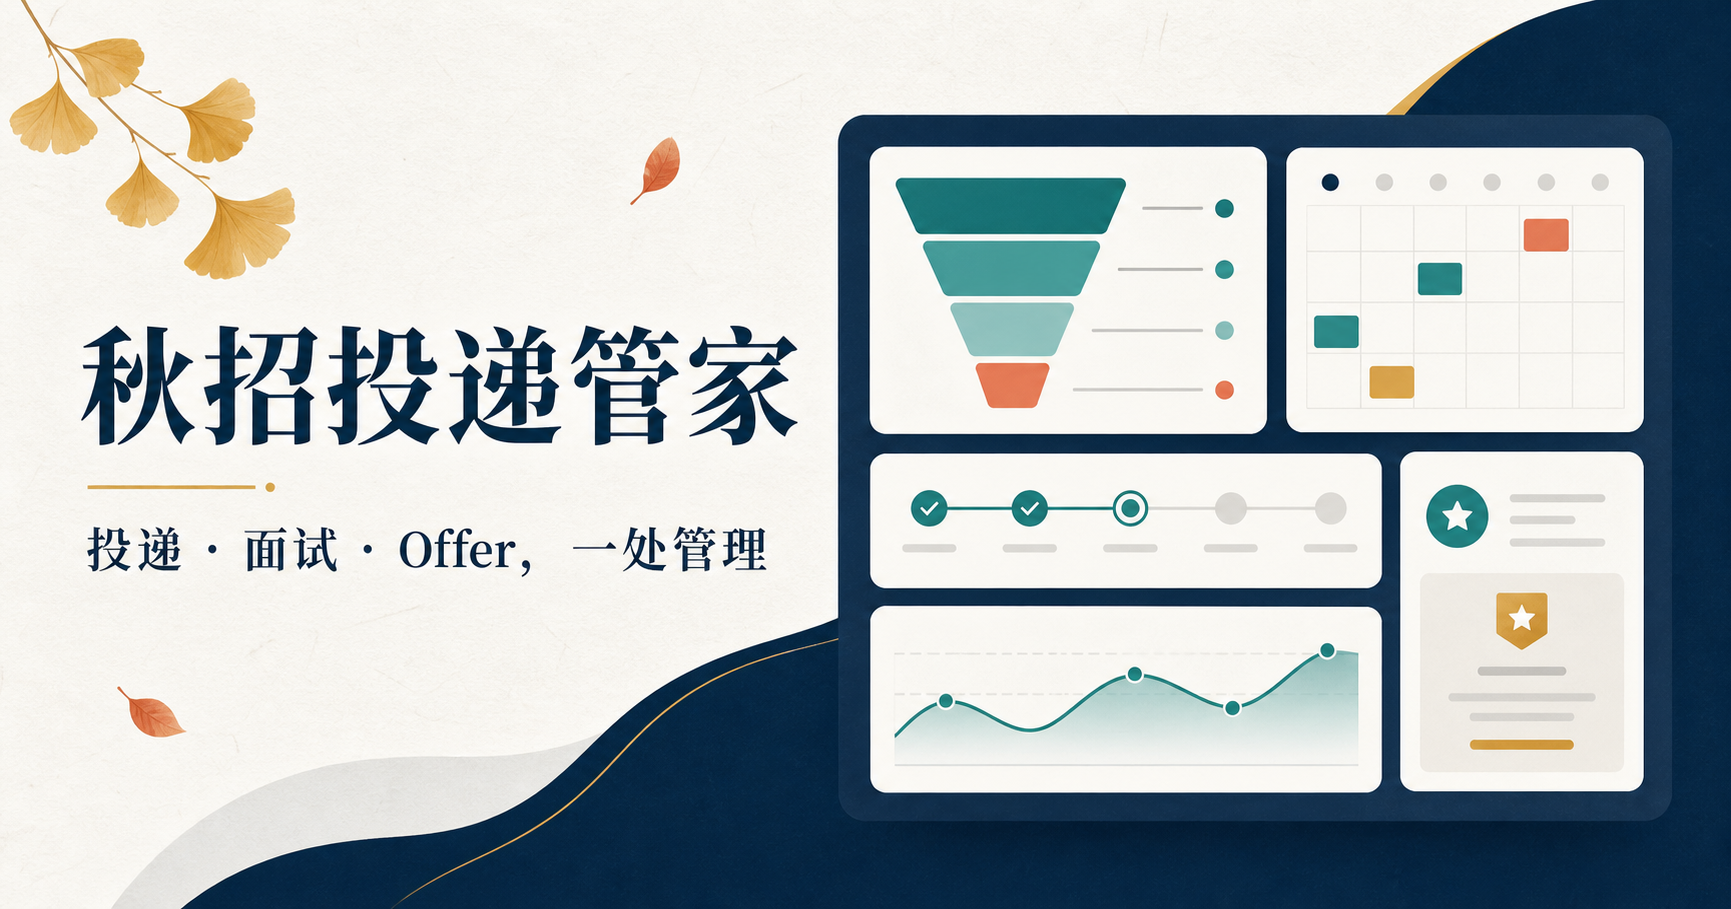
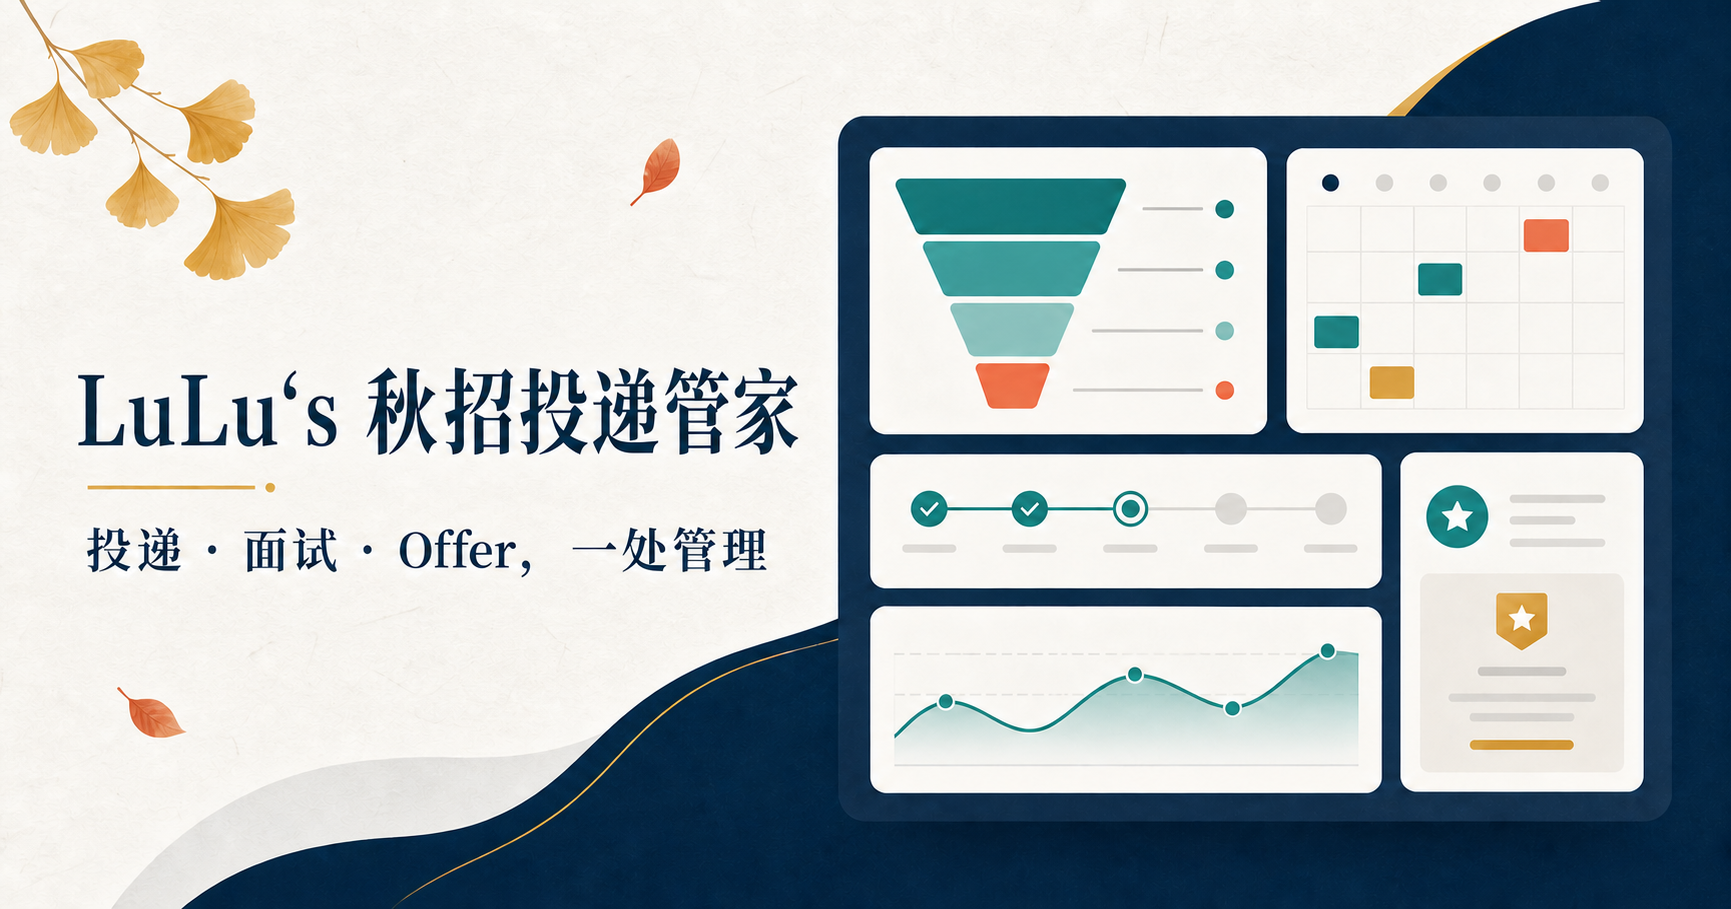
Simplify LuLu autumn tracker

diff --git a/app/api/applications/route.ts b/app/api/applications/route.ts
@@ -2,15 +2,14 @@ import { eq } from "drizzle-orm";
 import { getDb } from "../../../db";
 import { applications, timelineEvents } from "../../../db/schema";
 
-const textFields = ["company", "role", "city", "industry", "jobCategory", "team", "employmentType", "source", "referralName", "referralContact", "appliedDate", "deadlineDate", "stage", "priority", "applyUrl", "writtenDate", "firstDate", "secondDate", "nextEventDate", "responseDate", "result", "jdText", "notes"] as const;
+const textFields = ["company", "role", "city", "industry", "jobCategory", "team", "employmentType", "appliedDate", "deadlineDate", "stage", "priority", "applyUrl", "writtenDate", "firstDate", "secondDate", "nextEventDate", "responseDate", "result", "jdText", "notes"] as const;
 type TextField = typeof textFields[number];
 
 function clean(body: Record<string, unknown>) {
-  const result = {} as Record<TextField, string> & { salaryMin: number; salaryMax: number; resumeId: number | null };
+  const result = {} as Record<TextField, string> & { salaryMin: number; salaryMax: number };
   for (const field of textFields) result[field] = typeof body[field] === "string" ? body[field].trim() : "";
   result.salaryMin = Number(body.salaryMin) || 0;
   result.salaryMax = Number(body.salaryMax) || 0;
-  result.resumeId = Number(body.resumeId) || null;
   return result;
 }
 
@@ -27,7 +26,7 @@ export async function POST(request: Request) {
     if (!values.company || !values.role) return Response.json({ error: "公司名称和岗位名称不能为空" }, { status: 400 });
     const db = getDb();
     const [application] = await db.insert(applications).values(values).returning();
-    await db.insert(timelineEvents).values({ applicationId: application.id, type: "创建", title: values.stage === "待投递" ? "加入待投递清单" : `状态：${values.stage}`, occurredAt: values.appliedDate || new Date().toISOString(), notes: values.source ? `渠道：${values.source}` : "" });
+    await db.insert(timelineEvents).values({ applicationId: application.id, type: "创建", title: values.stage === "待投递" ? "加入待投递清单" : `状态：${values.stage}`, occurredAt: values.appliedDate || new Date().toISOString(), notes: "" });
     return Response.json({ application }, { status: 201 });
   } catch (error) { return Response.json({ error: messageFor(error) }, { status: 500 }); }
 }

diff --git a/app/api/data/route.ts b/app/api/data/route.ts
@@ -1,6 +1,6 @@
 import { desc } from "drizzle-orm";
 import { getDb } from "../../../db";
-import { applications, attachments, interviews, knowledgeNotes, offers, prospects, resumes, timelineEvents, userSettings } from "../../../db/schema";
+import { applications, attachments, interviews, knowledgeNotes, offers, prospects, timelineEvents, userSettings } from "../../../db/schema";
 
 function messageFor(error: unknown) {
   const message = error instanceof Error ? error.message : "Unexpected error";
@@ -11,18 +11,17 @@ function messageFor(error: unknown) {
 export async function GET() {
   try {
     const db = getDb();
-    const [applicationRows, interviewRows, timelineRows, noteRows, prospectRows, resumeRows, offerRows, attachmentRows, settingsRows] = await Promise.all([
+    const [applicationRows, interviewRows, timelineRows, noteRows, prospectRows, offerRows, attachmentRows, settingsRows] = await Promise.all([
       db.select().from(applications).orderBy(desc(applications.updatedAt), desc(applications.id)),
       db.select().from(interviews).orderBy(desc(interviews.date), desc(interviews.id)),
       db.select().from(timelineEvents).orderBy(desc(timelineEvents.occurredAt), desc(timelineEvents.id)),
       db.select().from(knowledgeNotes).orderBy(desc(knowledgeNotes.updatedAt), desc(knowledgeNotes.id)),
       db.select().from(prospects).orderBy(desc(prospects.createdAt), desc(prospects.id)),
-      db.select().from(resumes).orderBy(desc(resumes.createdAt), desc(resumes.id)),
       db.select().from(offers).orderBy(desc(offers.createdAt), desc(offers.id)),
       db.select().from(attachments).orderBy(desc(attachments.createdAt), desc(attachments.id)),
       db.select().from(userSettings).limit(1),
     ]);
-    return Response.json({ applications: applicationRows, interviews: interviewRows, timeline: timelineRows, notes: noteRows, prospects: prospectRows, resumes: resumeRows, offers: offerRows, attachments: attachmentRows, settings: settingsRows[0] ?? null });
+    return Response.json({ applications: applicationRows, interviews: interviewRows, timeline: timelineRows, notes: noteRows, prospects: prospectRows, offers: offerRows, attachments: attachmentRows, settings: settingsRows[0] ?? null });
   } catch (error) {
     return Response.json({ error: messageFor(error) }, { status: 500 });
   }

diff --git a/app/globals.css b/app/globals.css
@@ -3,11 +3,11 @@
 :root{--ink:#1c2b35;--muted:#7b898d;--paper:#f4f6f2;--card:#fff;--line:#e3e8e2;--navy:#19364a;--teal:#348b7f;--teal-soft:#e8f3ef;--coral:#dd795b;--gold:#d3a84d;--red:#b95548;--shadow:0 18px 55px rgb(27 52 62 / 7%)}
 *{box-sizing:border-box}html{background:var(--paper)}body{margin:0;background:var(--paper);color:var(--ink);font-family:Arial,"PingFang SC","Microsoft YaHei",sans-serif}button,input,select,textarea{font:inherit}button{cursor:pointer}a{color:inherit}.app-shell{min-height:100vh}.sidebar{position:fixed;z-index:8;inset:0 auto 0 0;display:flex;flex-direction:column;width:222px;padding:24px 14px 18px;background:var(--navy);color:#fff}.sidebar-brand{display:flex;align-items:center;gap:11px;padding:0 8px 25px}.sidebar-brand>span{display:grid;place-items:center;width:42px;height:42px;border:1px solid rgb(255 255 255 / 24%);border-radius:12px;background:#264a5e;font-size:21px;font-weight:800}.sidebar-brand div{display:grid;gap:3px}.sidebar-brand strong{font-size:17px}.sidebar-brand small{color:#8fb0bd;font-size:8px;letter-spacing:.17em}.sidebar nav{display:grid;gap:4px}.sidebar nav button{position:relative;display:flex;align-items:center;gap:12px;width:100%;border:0;border-radius:9px;background:transparent;padding:10px 12px;color:#adc0c7;text-align:left;font-size:13px}.sidebar nav button:hover,.sidebar nav button.active{background:rgb(255 255 255 / 9%);color:#fff}.sidebar nav button.active:before{position:absolute;left:-14px;width:3px;height:24px;border-radius:0 3px 3px 0;background:#5db2a4;content:""}.sidebar nav i{display:grid;place-items:center;width:19px;color:#77aca8;font-style:normal;font-size:16px}.sidebar nav b{margin-left:auto;min-width:19px;border-radius:10px;background:var(--coral);padding:2px 5px;text-align:center;font-size:9px}.goal-card{margin-top:auto;border:1px solid rgb(255 255 255 / 10%);border-radius:11px;background:rgb(255 255 255 / 5%);padding:13px}.goal-card>div:first-child{display:flex;justify-content:space-between;align-items:center;font-size:10px;color:#a8bec5}.goal-card strong{color:#fff;font-size:13px}.goal-track{height:5px;margin:10px 0 7px;border-radius:5px;background:#365566;overflow:hidden}.goal-track i{display:block;height:100%;border-radius:5px;background:#67b9a9}.goal-card small{color:#89a8b3;font-size:9px}.main{min-height:100vh;margin-left:222px}.topbar{display:flex;align-items:center;justify-content:space-between;min-height:80px;padding:18px 34px;border-bottom:1px solid var(--line);background:rgb(244 246 242 / 86%);backdrop-filter:blur(12px)}.topbar h1{margin:3px 0 0;font-size:22px;letter-spacing:-.04em}.section-kicker{color:#8b9a9b;font-size:8px;font-weight:800;letter-spacing:.18em}.top-actions{display:flex;align-items:center;gap:17px}.sync{display:flex;align-items:center;gap:7px;color:var(--muted);font-size:10px}.sync i{width:7px;height:7px;border-radius:50%;background:var(--gold)}.sync.ready i{background:#65b89c}.avatar{display:grid;place-items:center;width:34px;height:34px;border:0;border-radius:50%;background:#dde8e3;color:var(--teal);font-weight:800}.menu-button{display:none;border:0;background:transparent;font-size:22px}.error-banner{display:flex;justify-content:space-between;margin:16px 32px 0;border:1px solid #e8b9a9;border-radius:9px;background:#fff2ed;padding:11px 13px;color:#a94e3a;font-size:12px}.error-banner button{border:0;background:transparent;color:inherit}.loading-page{display:grid;place-items:center;min-height:65vh;color:var(--muted);font-size:12px}.loading-page span{width:34px;height:34px;border:3px solid #dbe9e3;border-top-color:var(--teal);border-radius:50%;animation:spin 1s linear infinite}.loading-page p{margin-top:-190px}@keyframes spin{to{transform:rotate(360deg)}}
 .page{padding:28px 34px 48px}.page-head,.welcome{display:flex;align-items:center;justify-content:space-between;gap:20px;margin-bottom:20px}.page-head p,.welcome p{margin:0;color:#657579;font-size:13px}.welcome p{color:var(--ink);font-size:19px;font-weight:700}.welcome span{display:block;margin-top:6px;color:var(--muted);font-size:12px}.head-actions{display:flex;gap:8px}.primary,.secondary,.danger{border-radius:8px;padding:9px 13px;font-size:12px;font-weight:700}.primary{border:1px solid var(--teal);background:var(--teal);color:#fff;box-shadow:0 7px 17px rgb(52 139 127 / 17%)}.secondary{border:1px solid var(--line);background:#fff;color:#4c5f61}.danger{border:1px solid #edc9c1;background:#fff6f3;color:var(--red)}.primary:hover,.secondary:hover{transform:translateY(-1px)}.primary:disabled{opacity:.55;cursor:wait}.metric-grid{display:grid;grid-template-columns:repeat(5,minmax(0,1fr));gap:10px;margin-bottom:18px}.metric{position:relative;overflow:hidden;min-height:118px;border:1px solid var(--line);border-radius:13px;background:#fff;padding:16px}.metric:after{position:absolute;right:-20px;bottom:-35px;width:82px;height:82px;border-radius:50%;background:var(--soft,#edf3f0);content:""}.metric span,.metric small{display:block;color:var(--muted);font-size:10px}.metric strong{position:relative;z-index:1;display:block;margin:10px 0 6px;font-size:31px;letter-spacing:-.06em}.metric-navy{--soft:#e3ebef}.metric-teal{--soft:#dff1ec}.metric-green{--soft:#e0f2e7}.metric-coral{--soft:#f5e5df}.metric-gold{--soft:#f6edda}.dashboard-grid{display:grid;grid-template-columns:1.15fr .85fr;gap:14px}.panel{border:1px solid var(--line);border-radius:14px;background:#fff;box-shadow:var(--shadow)}.panel-head{display:flex;align-items:center;justify-content:space-between;gap:12px;padding:18px 20px 12px}.panel-head h2{margin:4px 0 0;font-size:16px}.panel-head>small,.panel-head>button{border:0;background:transparent;color:var(--muted);font-size:10px}.funnel{display:grid;gap:9px;padding:5px 20px 21px}.funnel-row{display:grid;grid-template-columns:58px 1fr 25px 35px;align-items:center;gap:8px;font-size:10px}.funnel-row>span{color:#627276}.funnel-row>div{height:8px;border-radius:8px;background:#edf1ee;overflow:hidden}.funnel-row i{display:block;height:100%;border-radius:8px;background:linear-gradient(90deg,#3b9286,#75b8a9)}.funnel-row strong{text-align:right;font-size:12px}.funnel-row small{color:var(--muted);text-align:right;font-size:8px}.segmented{display:flex;border:1px solid var(--line);border-radius:7px;background:#f7f9f7;padding:2px}.segmented button{border:0;border-radius:5px;background:transparent;padding:5px 8px;color:var(--muted);font-size:9px}.segmented button.active{background:#fff;color:var(--ink);box-shadow:0 1px 5px rgb(0 0 0 / 7%)}.trend-canvas{display:block;width:100%;height:214px;padding:0 4px}.distribution-panel,.todo-panel{min-height:280px}.distribution-columns{display:grid;grid-template-columns:1fr 1fr;gap:28px;padding:2px 20px 20px}.distribution-columns h3{margin:0 0 11px;font-size:11px}.mini-bar{display:grid;grid-template-columns:55px 1fr 20px;align-items:center;gap:7px;margin:9px 0;font-size:9px}.mini-bar>span{overflow:hidden;text-overflow:ellipsis;white-space:nowrap;color:var(--muted)}.mini-bar>div{height:5px;border-radius:4px;background:#edf1ee}.mini-bar i{display:block;height:100%;border-radius:4px;background:#73afa4}.mini-bar b{text-align:right}.todo-list{padding:0 20px 16px}.todo-list>div{display:flex;align-items:center;gap:10px;padding:11px 0;border-bottom:1px solid var(--line)}.todo-list i{width:8px;height:8px;border-radius:50%}.dot-teal{background:var(--teal)}.dot-orange{background:var(--coral)}.dot-gold{background:var(--gold)}.todo-list strong,.todo-list span{display:block}.todo-list strong{font-size:11px}.todo-list span{margin-top:4px;color:var(--muted);font-size:9px}
-.filterbar{display:grid;grid-template-columns:minmax(210px,1fr) repeat(5,minmax(105px,auto));gap:8px;margin-bottom:10px}.search{display:flex;align-items:center;border:1px solid var(--line);border-radius:8px;background:#fff;padding:0 10px;color:var(--muted)}.search input{border:0;box-shadow:none}.filterbar select,.filterbar input{height:38px}.list-summary{display:flex;justify-content:space-between;margin:11px 2px;color:var(--muted);font-size:9px}.table-card{overflow-x:auto;border:1px solid var(--line);border-radius:13px;background:#fff;box-shadow:var(--shadow)}table{width:100%;min-width:900px;border-collapse:collapse;font-size:11px}th{background:#fafbf9;padding:11px 12px;color:#839093;text-align:left;font-size:9px;white-space:nowrap}td{border-top:1px solid var(--line);padding:12px;vertical-align:middle}tbody tr:hover{background:#fbfdfc}.company-cell{display:flex;align-items:center;gap:10px}.company-cell strong,.company-cell span{display:block}.company-cell strong{font-size:12px}.company-cell span{margin-top:4px;color:var(--muted);font-size:9px}.company-logo{display:grid;place-items:center;flex:0 0 35px;width:35px;height:35px;border-radius:9px;font-size:10px;font-weight:800}.pill{display:inline-flex;align-items:center;border-radius:99px;background:#edf2ef;padding:4px 8px;color:#536b66;font-size:8px;white-space:nowrap}.pill-Offer,.pill-通过{background:#dff2e8;color:#2c7b5c}.pill-已拒绝公司,.pill-已拒绝,.pill-避雷{background:#f7e5e1;color:#a44d3e}.pill-待投递,.pill-Dream{background:#fff0d2;color:#90651d}.pill-笔试,.pill-一面,.pill-二面,.pill-终面,.pill-HR面{background:#e5eef6;color:#446d8a}.priority{display:grid;place-items:center;width:22px;height:22px;border-radius:6px;background:#edf1ef;font-size:9px;font-weight:800}.priority-S{background:#f7dfd6;color:#a64e37}.priority-A{background:#f9edd2;color:#916516}.priority-B{background:#e3f0eb;color:#3f7467}.more{border:0;background:transparent;color:var(--teal);font-size:9px}.empty{display:grid;justify-items:center;padding:62px 22px;text-align:center}.empty>span{display:grid;place-items:center;width:48px;height:48px;border-radius:50%;background:var(--teal-soft);color:var(--teal);font-size:20px}.empty h3{margin:13px 0 5px;font-size:15px}.empty p{max-width:340px;margin:0 0 15px;color:var(--muted);font-size:10px;line-height:1.6}
+.filterbar{display:grid;grid-template-columns:minmax(210px,1fr) repeat(4,minmax(105px,auto));gap:8px;margin-bottom:10px}.search{display:flex;align-items:center;border:1px solid var(--line);border-radius:8px;background:#fff;padding:0 10px;color:var(--muted)}.search input{border:0;box-shadow:none}.filterbar select,.filterbar input{height:38px}.list-summary{display:flex;justify-content:space-between;margin:11px 2px;color:var(--muted);font-size:9px}.table-card{overflow-x:auto;border:1px solid var(--line);border-radius:13px;background:#fff;box-shadow:var(--shadow)}table{width:100%;min-width:900px;border-collapse:collapse;font-size:11px}th{background:#fafbf9;padding:11px 12px;color:#839093;text-align:left;font-size:9px;white-space:nowrap}td{border-top:1px solid var(--line);padding:12px;vertical-align:middle}tbody tr:hover{background:#fbfdfc}.company-cell{display:flex;align-items:center;gap:10px}.company-cell strong,.company-cell span{display:block}.company-cell strong{font-size:12px}.company-cell span{margin-top:4px;color:var(--muted);font-size:9px}.company-logo{display:grid;place-items:center;flex:0 0 35px;width:35px;height:35px;border-radius:9px;font-size:10px;font-weight:800}.pill{display:inline-flex;align-items:center;border-radius:99px;background:#edf2ef;padding:4px 8px;color:#536b66;font-size:8px;white-space:nowrap}.pill-Offer,.pill-通过{background:#dff2e8;color:#2c7b5c}.pill-已拒绝公司,.pill-已拒绝,.pill-避雷{background:#f7e5e1;color:#a44d3e}.pill-待投递,.pill-Dream{background:#fff0d2;color:#90651d}.pill-笔试,.pill-一面,.pill-二面,.pill-终面,.pill-HR面{background:#e5eef6;color:#446d8a}.priority{display:grid;place-items:center;width:22px;height:22px;border-radius:6px;background:#edf1ef;font-size:9px;font-weight:800}.priority-S{background:#f7dfd6;color:#a64e37}.priority-A{background:#f9edd2;color:#916516}.priority-B{background:#e3f0eb;color:#3f7467}.more{border:0;background:transparent;color:var(--teal);font-size:9px}.empty{display:grid;justify-items:center;padding:62px 22px;text-align:center}.empty>span{display:grid;place-items:center;width:48px;height:48px;border-radius:50%;background:var(--teal-soft);color:var(--teal);font-size:20px}.empty h3{margin:13px 0 5px;font-size:15px}.empty p{max-width:340px;margin:0 0 15px;color:var(--muted);font-size:10px;line-height:1.6}
 .calendar-layout{display:grid;grid-template-columns:minmax(0,1fr) 280px;gap:14px}.calendar-main{overflow:hidden}.calendar-toolbar{display:flex;align-items:center;justify-content:space-between;padding:15px 16px;border-bottom:1px solid var(--line)}.calendar-toolbar>div:first-child{display:flex;align-items:center;gap:10px}.calendar-toolbar>div:first-child button{border:0;background:transparent;color:var(--muted);font-size:20px}.calendar-toolbar strong{font-size:13px}.month-grid{display:grid;grid-template-columns:repeat(7,1fr)}.month-grid>b{padding:8px;text-align:center;color:var(--muted);font-size:8px}.month-grid>div{min-height:91px;border-top:1px solid var(--line);border-right:1px solid var(--line);padding:7px}.month-grid>div:nth-child(7n){border-right:0}.month-grid>div>span{display:grid;place-items:center;width:20px;height:20px;border-radius:50%;font-size:9px}.month-grid>div.today>span{background:var(--teal);color:#fff}.calendar-event{display:block;overflow:hidden;width:100%;margin-top:4px;border:0;border-radius:4px;background:#eaf3f0;padding:3px 4px;color:#35766d;text-align:left;text-overflow:ellipsis;white-space:nowrap;font-size:7px}.upcoming{padding-bottom:12px}.upcoming>article{display:flex;gap:11px;margin:0 14px;padding:13px 0;border-bottom:1px solid var(--line)}.countdown{display:grid;place-items:center;align-content:center;flex:0 0 47px;height:51px;border-radius:9px;background:#fff4e8;color:var(--coral)}.countdown strong{font-size:16px}.countdown span{font-size:7px}.upcoming h3{margin:6px 0 3px;font-size:11px}.upcoming p,.upcoming small{display:block;margin:0;color:var(--muted);font-size:8px}.deadline-list{margin:12px 14px 0;padding:12px;border-radius:9px;background:#f7f9f7}.deadline-list h3{margin:0 0 8px;font-size:10px}.deadline-list>div{display:flex;justify-content:space-between;gap:8px;padding:6px 0;color:var(--muted);font-size:8px}.deadline-list b{color:var(--coral)}.agenda{padding:12px}.agenda>article{display:grid;grid-template-columns:90px 1fr auto;gap:15px;align-items:center;border-bottom:1px solid var(--line);padding:13px}.agenda time,.agenda time strong{display:block;color:var(--muted);font-size:9px}.agenda time strong{margin-top:5px;color:var(--ink);font-size:12px}.agenda h3{margin:7px 0 4px;font-size:12px}.agenda p{margin:0;color:var(--muted);font-size:9px}.agenda>article>button{border:0;background:transparent;color:var(--red);font-size:9px}
-.category-tabs{display:flex;gap:7px;margin-bottom:16px;overflow-x:auto}.category-tabs button{border:1px solid var(--line);border-radius:8px;background:#fff;padding:8px 11px;color:var(--muted);font-size:10px;white-space:nowrap}.category-tabs button.active{border-color:#a8cbc4;background:var(--teal-soft);color:var(--teal)}.category-tabs span{margin-left:4px}.note-grid{display:grid;grid-template-columns:repeat(3,minmax(0,1fr));gap:12px}.note-card{min-height:200px;border:1px solid var(--line);border-radius:12px;background:#fff;padding:15px;box-shadow:var(--shadow)}.note-card>div{display:flex;justify-content:space-between}.note-card h3{margin:14px 0 8px;font-size:14px}.note-card>p{display:-webkit-box;overflow:hidden;margin:0;color:#68777a;font-size:10px;line-height:1.65;-webkit-box-orient:vertical;-webkit-line-clamp:4}.note-card footer{display:grid;gap:5px;margin-top:18px;padding-top:11px;border-top:1px solid var(--line);color:var(--muted);font-size:8px}.prospect-grid{display:grid;grid-template-columns:repeat(3,minmax(0,1fr));gap:12px}.prospect-card{border:1px solid var(--line);border-radius:12px;background:#fff;padding:15px}.prospect-top{display:flex;justify-content:space-between}.prospect-top>div{display:flex;align-items:center;gap:7px}.prospect-card h3{margin:14px 0 5px;font-size:15px}.prospect-card>p{height:32px;margin:0;color:var(--muted);font-size:9px}.deadline-card{display:flex;justify-content:space-between;align-items:center;margin:13px 0;border-radius:8px;background:#f6f8f6;padding:10px;color:var(--muted);font-size:8px}.deadline-card strong{color:var(--ink)}.deadline-card.urgent{background:#fff0ea}.deadline-card.urgent strong{color:var(--coral)}.prospect-card footer{display:flex;justify-content:space-between;color:var(--muted);font-size:8px}.prospect-card footer button{border:0;background:transparent;color:var(--red);font-size:8px}.resume-grid{display:grid;grid-template-columns:repeat(2,minmax(0,1fr));gap:12px}.resume-card{display:flex;align-items:flex-start;gap:14px;border:1px solid var(--line);border-radius:12px;background:#fff;padding:16px}.file-icon{display:grid;place-items:center;flex:0 0 42px;height:50px;border-radius:7px;background:#fff0ec;color:var(--coral);font-size:9px;font-weight:800}.resume-body{flex:1}.resume-body>span{color:var(--teal);font-size:8px}.resume-body h3{margin:6px 0 4px;font-size:13px}.resume-body p,.resume-body small{display:block;margin:0;color:var(--muted);font-size:9px}.resume-body small{margin-top:8px}.resume-actions{display:grid;gap:8px}.resume-actions a,.resume-actions button{border:0;background:transparent;color:var(--teal);font-size:8px;text-decoration:none}.resume-actions button{color:var(--red)}
+.category-tabs{display:flex;gap:7px;margin-bottom:16px;overflow-x:auto}.category-tabs button{border:1px solid var(--line);border-radius:8px;background:#fff;padding:8px 11px;color:var(--muted);font-size:10px;white-space:nowrap}.category-tabs button.active{border-color:#a8cbc4;background:var(--teal-soft);color:var(--teal)}.category-tabs span{margin-left:4px}.note-grid{display:grid;grid-template-columns:repeat(3,minmax(0,1fr));gap:12px}.note-card{min-height:200px;border:1px solid var(--line);border-radius:12px;background:#fff;padding:15px;box-shadow:var(--shadow)}.note-card>div{display:flex;justify-content:space-between}.note-card h3{margin:14px 0 8px;font-size:14px}.note-card>p{display:-webkit-box;overflow:hidden;margin:0;color:#68777a;font-size:10px;line-height:1.65;-webkit-box-orient:vertical;-webkit-line-clamp:4}.note-card footer{display:grid;gap:5px;margin-top:18px;padding-top:11px;border-top:1px solid var(--line);color:var(--muted);font-size:8px}.prospect-grid{display:grid;grid-template-columns:repeat(3,minmax(0,1fr));gap:12px}.prospect-card{border:1px solid var(--line);border-radius:12px;background:#fff;padding:15px}.prospect-top{display:flex;justify-content:space-between}.prospect-top>div{display:flex;align-items:center;gap:7px}.prospect-card h3{margin:14px 0 5px;font-size:15px}.prospect-card>p{height:32px;margin:0;color:var(--muted);font-size:9px}.deadline-card{display:flex;justify-content:space-between;align-items:center;margin:13px 0;border-radius:8px;background:#f6f8f6;padding:10px;color:var(--muted);font-size:8px}.deadline-card strong{color:var(--ink)}.deadline-card.urgent{background:#fff0ea}.deadline-card.urgent strong{color:var(--coral)}.prospect-card footer{display:flex;justify-content:space-between;color:var(--muted);font-size:8px}.prospect-card footer button{border:0;background:transparent;color:var(--red);font-size:8px}
 .analysis-metrics{display:grid;grid-template-columns:repeat(3,1fr);gap:11px;margin-bottom:14px}.analysis-metrics article{border:1px solid var(--line);border-radius:12px;background:#fff;padding:16px}.analysis-metrics span,.analysis-metrics small{display:block;color:var(--muted);font-size:9px}.analysis-metrics strong{display:block;margin:9px 0 5px;font-size:25px}.analysis-grid{display:grid;grid-template-columns:1fr 1fr;gap:14px}.analysis-grid .panel{padding-bottom:16px}.span-panel{grid-column:span 2}.analysis-funnel{display:grid;gap:12px;padding:5px 20px}.analysis-funnel>div>div:first-child{display:flex;justify-content:space-between;font-size:10px}.analysis-funnel>div>div:nth-child(2){height:8px;margin:6px 0;border-radius:8px;background:#edf1ee;overflow:hidden}.analysis-funnel i{display:block;height:100%;border-radius:8px;background:linear-gradient(90deg,var(--teal),#7dbaae)}.analysis-funnel small{color:var(--muted);font-size:8px}.compact-table{min-width:0}.direction-grid{display:grid;grid-template-columns:1fr 1fr;gap:30px;padding:2px 20px}.direction-grid h3{font-size:11px}.direction-row{display:grid;grid-template-columns:65px 1fr 70px;align-items:center;gap:7px;margin:9px 0;font-size:8px}.direction-row>div{height:6px;border-radius:6px;background:#edf1ee}.direction-row i{display:block;height:100%;border-radius:6px;background:#77b2a7}.direction-row b{text-align:right}.master-timeline{max-width:800px}.master-timeline>section{display:grid;grid-template-columns:120px 1fr;gap:24px;margin-bottom:30px}.master-timeline>section>h2{font-size:13px;color:var(--muted)}.master-timeline>section>div{position:relative}.master-timeline>section>div:before{position:absolute;left:93px;top:8px;bottom:-30px;width:1px;background:#dce4df;content:""}.master-timeline article{display:grid;grid-template-columns:78px 30px 1fr;gap:0;margin-bottom:16px}.master-timeline time{padding-top:6px;color:var(--muted);font-size:8px}.master-timeline article>i{position:relative;z-index:1;display:grid;place-items:center;width:13px;height:13px;margin:4px auto;border:3px solid var(--paper);border-radius:50%;background:#83b5ac;color:#fff;font-style:normal;font-size:6px}.master-timeline article.milestone>i{width:20px;height:20px;margin-top:0;background:var(--gold)}.master-timeline article>div{border:1px solid var(--line);border-radius:9px;background:#fff;padding:11px}.master-timeline article span{color:var(--teal);font-size:7px}.master-timeline article h3{margin:5px 0 4px;font-size:11px}.master-timeline article p,.master-timeline article small{display:block;margin:0;color:var(--muted);font-size:8px}.offer-grid{display:grid;grid-template-columns:repeat(3,minmax(0,1fr));gap:12px}.offer-card{position:relative;border:1px solid var(--line);border-radius:13px;background:#fff;padding:16px}.offer-card.best{border-color:#a9cdc5;box-shadow:0 16px 50px rgb(52 139 127 / 10%)}.offer-rank{display:flex;justify-content:space-between;color:var(--gold);font-size:8px;font-weight:800}.offer-company{display:flex;gap:10px;align-items:center;margin:17px 0}.offer-company h3{margin:0 0 5px;font-size:14px}.offer-company p{margin:0;color:var(--muted);font-size:8px}.package{border-radius:9px;background:var(--navy);padding:12px;color:#fff}.package span{display:block;color:#a9bdc7;font-size:8px}.package strong{display:block;margin-top:5px;font-size:19px}.offer-breakdown{display:grid;gap:8px;margin:14px 0}.offer-breakdown span{display:flex;justify-content:space-between;color:var(--muted);font-size:8px}.offer-breakdown b{color:var(--ink)}.score-row{display:flex;justify-content:space-between;border-top:1px solid var(--line);padding-top:11px;color:var(--muted);font-size:8px}.score-row b{color:var(--teal)}.danger-link{margin-top:14px;border:0;background:transparent;padding:0;color:var(--red);font-size:8px}.package-preview{display:flex;justify-content:space-between;margin-top:16px;border-radius:9px;background:var(--navy);padding:13px;color:#afc2cb;font-size:10px}.package-preview strong{color:#fff;font-size:16px}
 .settings-page{max-width:960px}.settings-section{display:grid;grid-template-columns:230px 1fr;gap:35px;border-bottom:1px solid var(--line);padding:24px 0}.settings-section:first-child{padding-top:0}.settings-section h2{margin:6px 0;font-size:16px}.settings-section p{margin:0;color:var(--muted);font-size:9px;line-height:1.6}.settings-fields{display:grid;grid-template-columns:1fr 1fr;gap:13px}.settings-fields label,.form label{display:grid;gap:6px;color:#667679;font-size:9px;font-weight:700}.settings-fields input,.settings-fields select,.settings-fields textarea,.form input,.form select,.form textarea,.inline-event input{width:100%;border:1px solid var(--line);border-radius:8px;background:#fff;padding:9px 10px;color:var(--ink);outline:0;font-weight:400;font-size:10px}.settings-fields input:focus,.form input:focus,.form select:focus,.form textarea:focus,.inline-event input:focus{border-color:#8ebdb4;box-shadow:0 0 0 3px rgb(52 139 127 / 9%)}.span-2{grid-column:span 2}.settings-save{display:flex;justify-content:flex-end;padding-top:18px}.data-section{border-bottom:0}.data-actions{display:flex;gap:9px;align-items:start}.upload-label{display:inline-block}.modal-backdrop{position:fixed;z-index:20;inset:0;display:grid;place-items:center;background:rgb(17 43 56 / 48%);padding:18px;backdrop-filter:blur(4px)}.modal{overflow:auto;width:min(660px,100%);max-height:92vh;border-radius:15px;background:#fff;box-shadow:0 28px 90px rgb(18 42 54 / 30%)}.modal-wide{width:min(900px,100%)}.modal-heading{position:sticky;z-index:2;top:0;display:flex;justify-content:space-between;align-items:center;border-bottom:1px solid var(--line);background:#fff;padding:17px 20px}.modal-heading h2{margin:4px 0 0;font-size:18px}.icon-button{border:0;background:transparent;color:var(--muted);font-size:26px}.form{padding:18px 20px 20px}.form-section-title{margin:4px 0 11px;border-bottom:1px solid var(--line);padding-bottom:7px;color:var(--teal);font-size:9px;font-weight:800}.form-section-title:not(:first-child){margin-top:21px}.form-grid{display:grid;grid-template-columns:1fr 1fr;gap:12px}.form-actions,.detail-actions{display:flex;justify-content:flex-end;gap:8px;margin-top:18px;border-top:1px solid var(--line);padding-top:14px}
 .detail{padding:18px 20px 22px}.detail-hero{display:flex;align-items:center;gap:12px;border-radius:11px;background:#f6f8f6;padding:14px}.detail-hero .company-logo{width:50px;height:50px;flex-basis:50px}.detail-hero>div{flex:1}.detail-hero h3{margin:7px 0 3px;font-size:16px}.detail-hero p{margin:0;color:var(--muted);font-size:9px}.detail>section{margin-top:20px}.detail>section>h3,.detail-grid section>h3{margin:6px 0 12px;font-size:13px}.status-flow{display:flex;gap:6px;overflow-x:auto;padding-bottom:4px}.status-flow button{border:1px solid var(--line);border-radius:7px;background:#fff;padding:7px 9px;color:var(--muted);font-size:8px;white-space:nowrap}.status-flow button.active{border-color:var(--teal);background:var(--teal);color:#fff}.detail-grid{display:grid;grid-template-columns:1fr 1fr;gap:22px;margin-top:22px}.detail-grid section{min-width:0}.detail dl{margin:0}.detail dl>div{display:flex;justify-content:space-between;gap:15px;border-bottom:1px solid var(--line);padding:8px 0;font-size:8px}.detail dt{color:var(--muted)}.detail dd{margin:0;text-align:right}.detail details{margin-top:12px;border-radius:8px;background:#f7f9f7;padding:10px;font-size:8px}.detail details p{white-space:pre-wrap;line-height:1.6}.detail-note{margin-top:10px;border-left:3px solid var(--gold);background:#fff9ec;padding:10px;font-size:9px}.timeline-mini{position:relative}.timeline-mini:before{position:absolute;left:4px;top:5px;bottom:4px;width:1px;background:#dbe5df;content:""}.timeline-mini>div{position:relative;padding:0 0 13px 18px}.timeline-mini i{position:absolute;left:0;top:3px;width:9px;height:9px;border:2px solid #fff;border-radius:50%;background:var(--teal)}.timeline-mini time,.timeline-mini strong{display:block;font-size:8px}.timeline-mini time{color:var(--muted)}.timeline-mini strong{margin-top:3px}.timeline-mini p{margin:4px 0 0;color:var(--muted);font-size:8px}.inline-event{display:grid;gap:6px;border-radius:8px;background:#f6f8f6;padding:9px}.inline-event .secondary{padding:7px}.linked-item{margin-bottom:8px;border:1px solid var(--line);border-radius:8px;padding:9px}.linked-item strong{display:block;margin:7px 0 4px;font-size:9px}.linked-item p{display:-webkit-box;overflow:hidden;margin:0;color:var(--muted);font-size:8px;-webkit-box-orient:vertical;-webkit-line-clamp:3}.muted{color:var(--muted);font-size:9px}.file-list{display:grid;gap:6px}.file-list a{display:flex;justify-content:space-between;border:1px solid var(--line);border-radius:7px;padding:8px;color:var(--teal);font-size:8px;text-decoration:none}.file-list span{color:var(--muted)}.upload-box{display:block;margin-top:8px;border:1px dashed #aac8c1;border-radius:8px;background:#f6fbf9;padding:12px;color:var(--teal);text-align:center;font-size:8px}.detail-actions{justify-content:space-between}
 @media(max-width:1050px){.metric-grid{grid-template-columns:repeat(3,1fr)}.filterbar{grid-template-columns:1fr repeat(3,110px)}.filterbar select:nth-last-child(-n+2){display:none}.note-grid,.prospect-grid,.offer-grid{grid-template-columns:repeat(2,1fr)}}
-@media(max-width:760px){.sidebar{transform:translateX(-100%);width:230px;transition:transform .2s ease}.sidebar.open{transform:translateX(0);box-shadow:20px 0 70px rgb(0 0 0 / 25%)}.main{margin-left:0}.topbar{min-height:66px;padding:12px 14px}.menu-button{display:block}.topbar>div:nth-child(2){flex:1;margin-left:11px}.topbar h1{font-size:18px}.sync{font-size:0}.page{padding:19px 14px 38px}.welcome,.page-head{align-items:flex-start}.welcome p{font-size:15px}.metric-grid{grid-template-columns:repeat(2,1fr);gap:8px}.metric{min-height:99px;padding:13px}.metric strong{font-size:25px}.metric:last-child{grid-column:span 2}.dashboard-grid{grid-template-columns:1fr}.trend-canvas{height:190px}.distribution-columns{grid-template-columns:1fr}.filterbar{grid-template-columns:1fr 1fr}.search{grid-column:span 2}.filterbar select{display:block!important;width:100%}.filterbar select:nth-of-type(n+3){display:none!important}.list-summary span:last-child{display:none}.table-card{overflow:visible;background:transparent;border:0;box-shadow:none}table,tbody,tr,td{display:block;width:100%;min-width:0}thead{display:none}tbody{display:grid;gap:8px}tbody tr{position:relative;border:1px solid var(--line);border-radius:11px;background:#fff;padding:13px}td{display:inline-block;width:auto;border:0;padding:0;margin:10px 12px 0 0;color:var(--muted);font-size:9px}td:first-child{display:block;margin:0;padding-right:35px;color:var(--ink)}td:last-child{position:absolute;right:9px;top:9px;margin:0}.calendar-layout{grid-template-columns:1fr}.upcoming{order:-1}.month-grid>div{min-height:66px;padding:4px}.calendar-event{font-size:0;height:5px;padding:0}.agenda>article{grid-template-columns:68px 1fr}.agenda>article>button{display:none}.note-grid,.prospect-grid,.resume-grid,.offer-grid{grid-template-columns:1fr}.analysis-metrics{grid-template-columns:1fr 1fr}.analysis-metrics article:last-child{grid-column:span 2}.analysis-grid{grid-template-columns:1fr}.span-panel{grid-column:auto}.direction-grid{grid-template-columns:1fr}.master-timeline>section{grid-template-columns:1fr;gap:7px}.master-timeline>section>h2{margin:0}.settings-section{grid-template-columns:1fr;gap:15px}.detail-grid{grid-template-columns:1fr}.modal-backdrop{padding:7px;place-items:end center}.modal{max-height:95vh;border-radius:15px 15px 8px 8px}.form-grid{grid-template-columns:1fr}.span-2{grid-column:auto}.detail-hero{align-items:flex-start;flex-wrap:wrap}.detail-hero>button{width:100%}.top-actions{gap:8px}.error-banner{margin:10px 14px 0}}
+@media(max-width:760px){.sidebar{transform:translateX(-100%);width:230px;transition:transform .2s ease}.sidebar.open{transform:translateX(0);box-shadow:20px 0 70px rgb(0 0 0 / 25%)}.main{margin-left:0}.topbar{min-height:66px;padding:12px 14px}.menu-button{display:block}.topbar>div:nth-child(2){flex:1;margin-left:11px}.topbar h1{font-size:18px}.sync{font-size:0}.page{padding:19px 14px 38px}.welcome,.page-head{align-items:flex-start}.welcome p{font-size:15px}.metric-grid{grid-template-columns:repeat(2,1fr);gap:8px}.metric{min-height:99px;padding:13px}.metric strong{font-size:25px}.metric:last-child{grid-column:span 2}.dashboard-grid{grid-template-columns:1fr}.trend-canvas{height:190px}.distribution-columns{grid-template-columns:1fr}.filterbar{grid-template-columns:1fr 1fr}.search{grid-column:span 2}.filterbar select{display:block!important;width:100%}.filterbar select:nth-of-type(n+3){display:none!important}.list-summary span:last-child{display:none}.table-card{overflow:visible;background:transparent;border:0;box-shadow:none}table,tbody,tr,td{display:block;width:100%;min-width:0}thead{display:none}tbody{display:grid;gap:8px}tbody tr{position:relative;border:1px solid var(--line);border-radius:11px;background:#fff;padding:13px}td{display:inline-block;width:auto;border:0;padding:0;margin:10px 12px 0 0;color:var(--muted);font-size:9px}td:first-child{display:block;margin:0;padding-right:35px;color:var(--ink)}td:last-child{position:absolute;right:9px;top:9px;margin:0}.calendar-layout{grid-template-columns:1fr}.upcoming{order:-1}.month-grid>div{min-height:66px;padding:4px}.calendar-event{font-size:0;height:5px;padding:0}.agenda>article{grid-template-columns:68px 1fr}.agenda>article>button{display:none}.note-grid,.prospect-grid,.offer-grid{grid-template-columns:1fr}.analysis-metrics{grid-template-columns:1fr 1fr}.analysis-metrics article:last-child{grid-column:span 2}.analysis-grid{grid-template-columns:1fr}.span-panel{grid-column:auto}.direction-grid{grid-template-columns:1fr}.master-timeline>section{grid-template-columns:1fr;gap:7px}.master-timeline>section>h2{margin:0}.settings-section{grid-template-columns:1fr;gap:15px}.detail-grid{grid-template-columns:1fr}.modal-backdrop{padding:7px;place-items:end center}.modal{max-height:95vh;border-radius:15px 15px 8px 8px}.form-grid{grid-template-columns:1fr}.span-2{grid-column:auto}.detail-hero{align-items:flex-start;flex-wrap:wrap}.detail-hero>button{width:100%}.top-actions{gap:8px}.error-banner{margin:10px 14px 0}}

diff --git a/app/layout.tsx b/app/layout.tsx
@@ -19,11 +19,11 @@ export async function generateMetadata(): Promise<Metadata> {
   const protocol = headerStore.get("x-forwarded-proto") || "https";
   const origin = `${protocol}://${host}`;
   return {
-    title: "秋招投递管家",
+    title: "LuLu‘s 秋招投递管家",
     description: "投递、面试、Offer，一处管理。跨设备同步的个人秋招工作台。",
     icons: { icon: "/favicon.svg", shortcut: "/favicon.svg" },
-    openGraph: { title: "秋招投递管家", description: "投递、面试、Offer，一处管理。", images: [{ url: `${origin}/og.png`, width: 1536, height: 910 }] },
-    twitter: { card: "summary_large_image", title: "秋招投递管家", description: "投递、面试、Offer，一处管理。", images: [`${origin}/og.png`] },
+    openGraph: { title: "LuLu‘s 秋招投递管家", description: "投递、面试、Offer，一处管理。", images: [{ url: `${origin}/og.png`, width: 1536, height: 910 }] },
+    twitter: { card: "summary_large_image", title: "LuLu‘s 秋招投递管家", description: "投递、面试、Offer，一处管理。", images: [`${origin}/og.png`] },
   };
 }
 